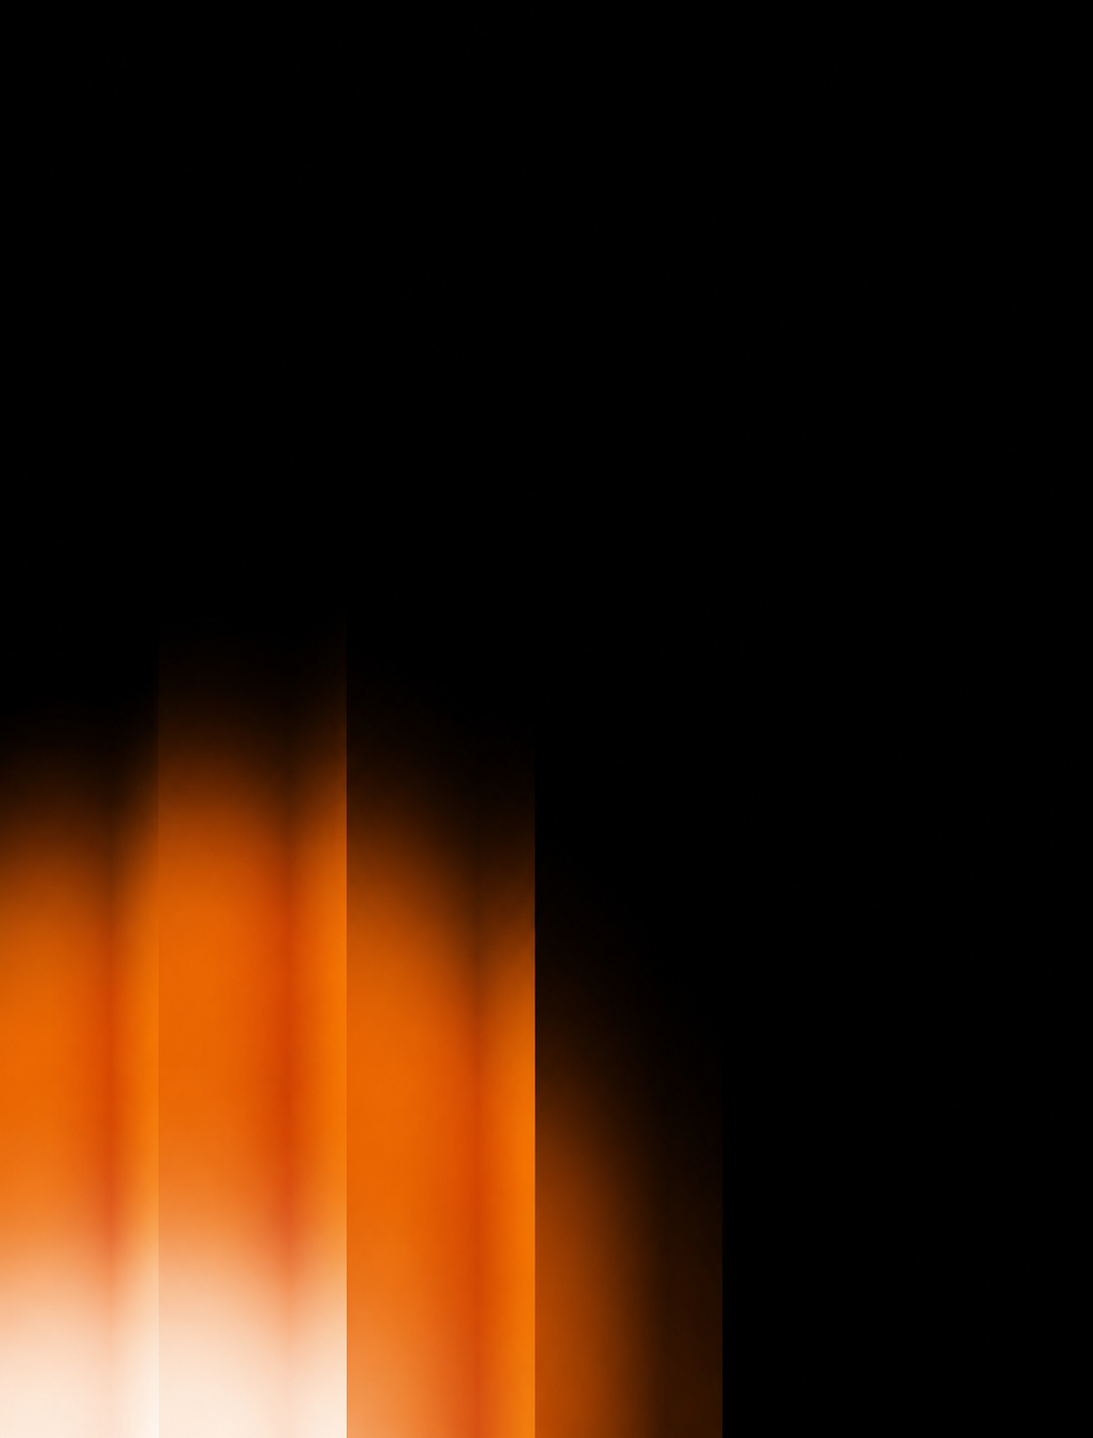
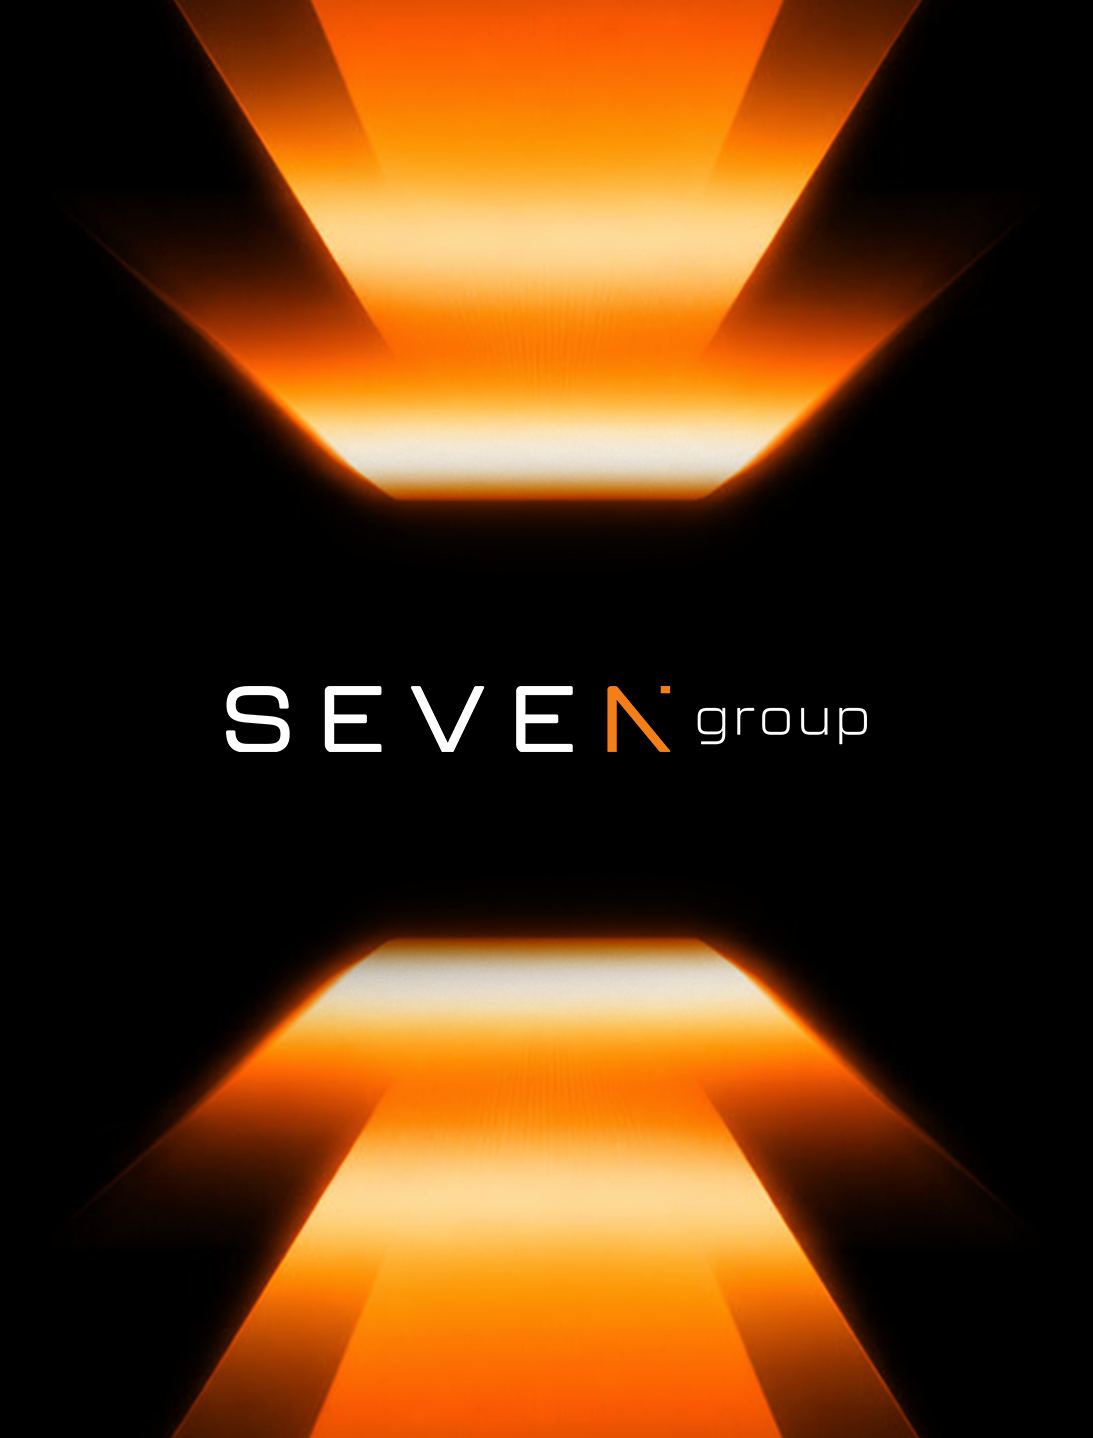
refactor: improve ARQO scroll experience and animations

diff --git a/src/components/seven/SevenResults.tsx b/src/components/seven/SevenResults.tsx
@@ -18,20 +18,23 @@ function CountUp({
   useEffect(() => {
     if (!isInView) return undefined;
 
-    let frame = 0;
-    const totalFrames = 70;
+    const duration = 2000;
+    const startedAt = performance.now();
+    let animation = 0;
 
-    const tick = () => {
-      frame += 1;
-      const progress = 1 - Math.pow(1 - Math.min(frame / totalFrames, 1), 3);
+    const tick = (currentTime: number) => {
+      const elapsed = currentTime - startedAt;
+      const progress = 1 - Math.pow(1 - Math.min(elapsed / duration, 1), 3);
       setValue(target * progress);
 
-      if (frame < totalFrames) {
-        requestAnimationFrame(tick);
+      if (elapsed < duration) {
+        animation = requestAnimationFrame(tick);
+      } else {
+        setValue(target);
       }
     };
 
-    const animation = requestAnimationFrame(tick);
+    animation = requestAnimationFrame(tick);
     return () => cancelAnimationFrame(animation);
   }, [isInView, target]);
 

diff --git a/src/components/SevenEntryTransition.tsx b/src/components/SevenEntryTransition.tsx
@@ -346,9 +346,9 @@ export function SevenEntryTransition({ onLogout, initialChoices = false }: Seven
                     },
                     {
                       title: 'ARQO Inteligência Imobiliária',
-                      subtitle: 'Em breve: a operação comercial e sua lógica de mercado.',
-                      action: undefined,
-                      status: 'Conteúdo em preparação',
+                      subtitle: 'Conheça a consultoria premium de clareza, curadoria e decisão estratégica.',
+                      action: () => navigate('/arqo'),
+                      status: 'Acessar página institucional',
                     },
                   ].map((option) => (
                     <button

diff --git a/src/components/seven/SevenPrimitives.tsx b/src/components/seven/SevenPrimitives.tsx
@@ -101,8 +101,8 @@ function RevealCharacter({
   total: number;
   progress: ReturnType<typeof useScroll>['scrollYProgress'];
 }) {
-  const start = total <= 1 ? 0 : index / total;
-  const end = total <= 1 ? 1 : (index + 3.6) / total;
+  const start = total <= 1 ? 0 : (index / Math.max(total - 1, 1)) * 0.78;
+  const end = total <= 1 ? 1 : Math.min(start + 0.18, 0.96);
   const color = useTransform(progress, [start, end], ['rgba(17,17,20,0.16)', 'rgba(17,17,20,1)']);
 
   return (

diff --git a/src/components/seven/SevenHero.tsx b/src/components/seven/SevenHero.tsx
@@ -41,7 +41,7 @@ export function SevenHero() {
             posicionamento, arquitetura, marketing, renderização e aceleração comercial.
           </p>
           <div className="mt-10 flex flex-col gap-3 sm:flex-row">
-            <AnchorButton href="#ecossistema" dark>
+            <AnchorButton href="#quem-somos" dark>
               Conhecer Ecossistema
               <ArrowRight className="ml-2 h-4 w-4" />
             </AnchorButton>